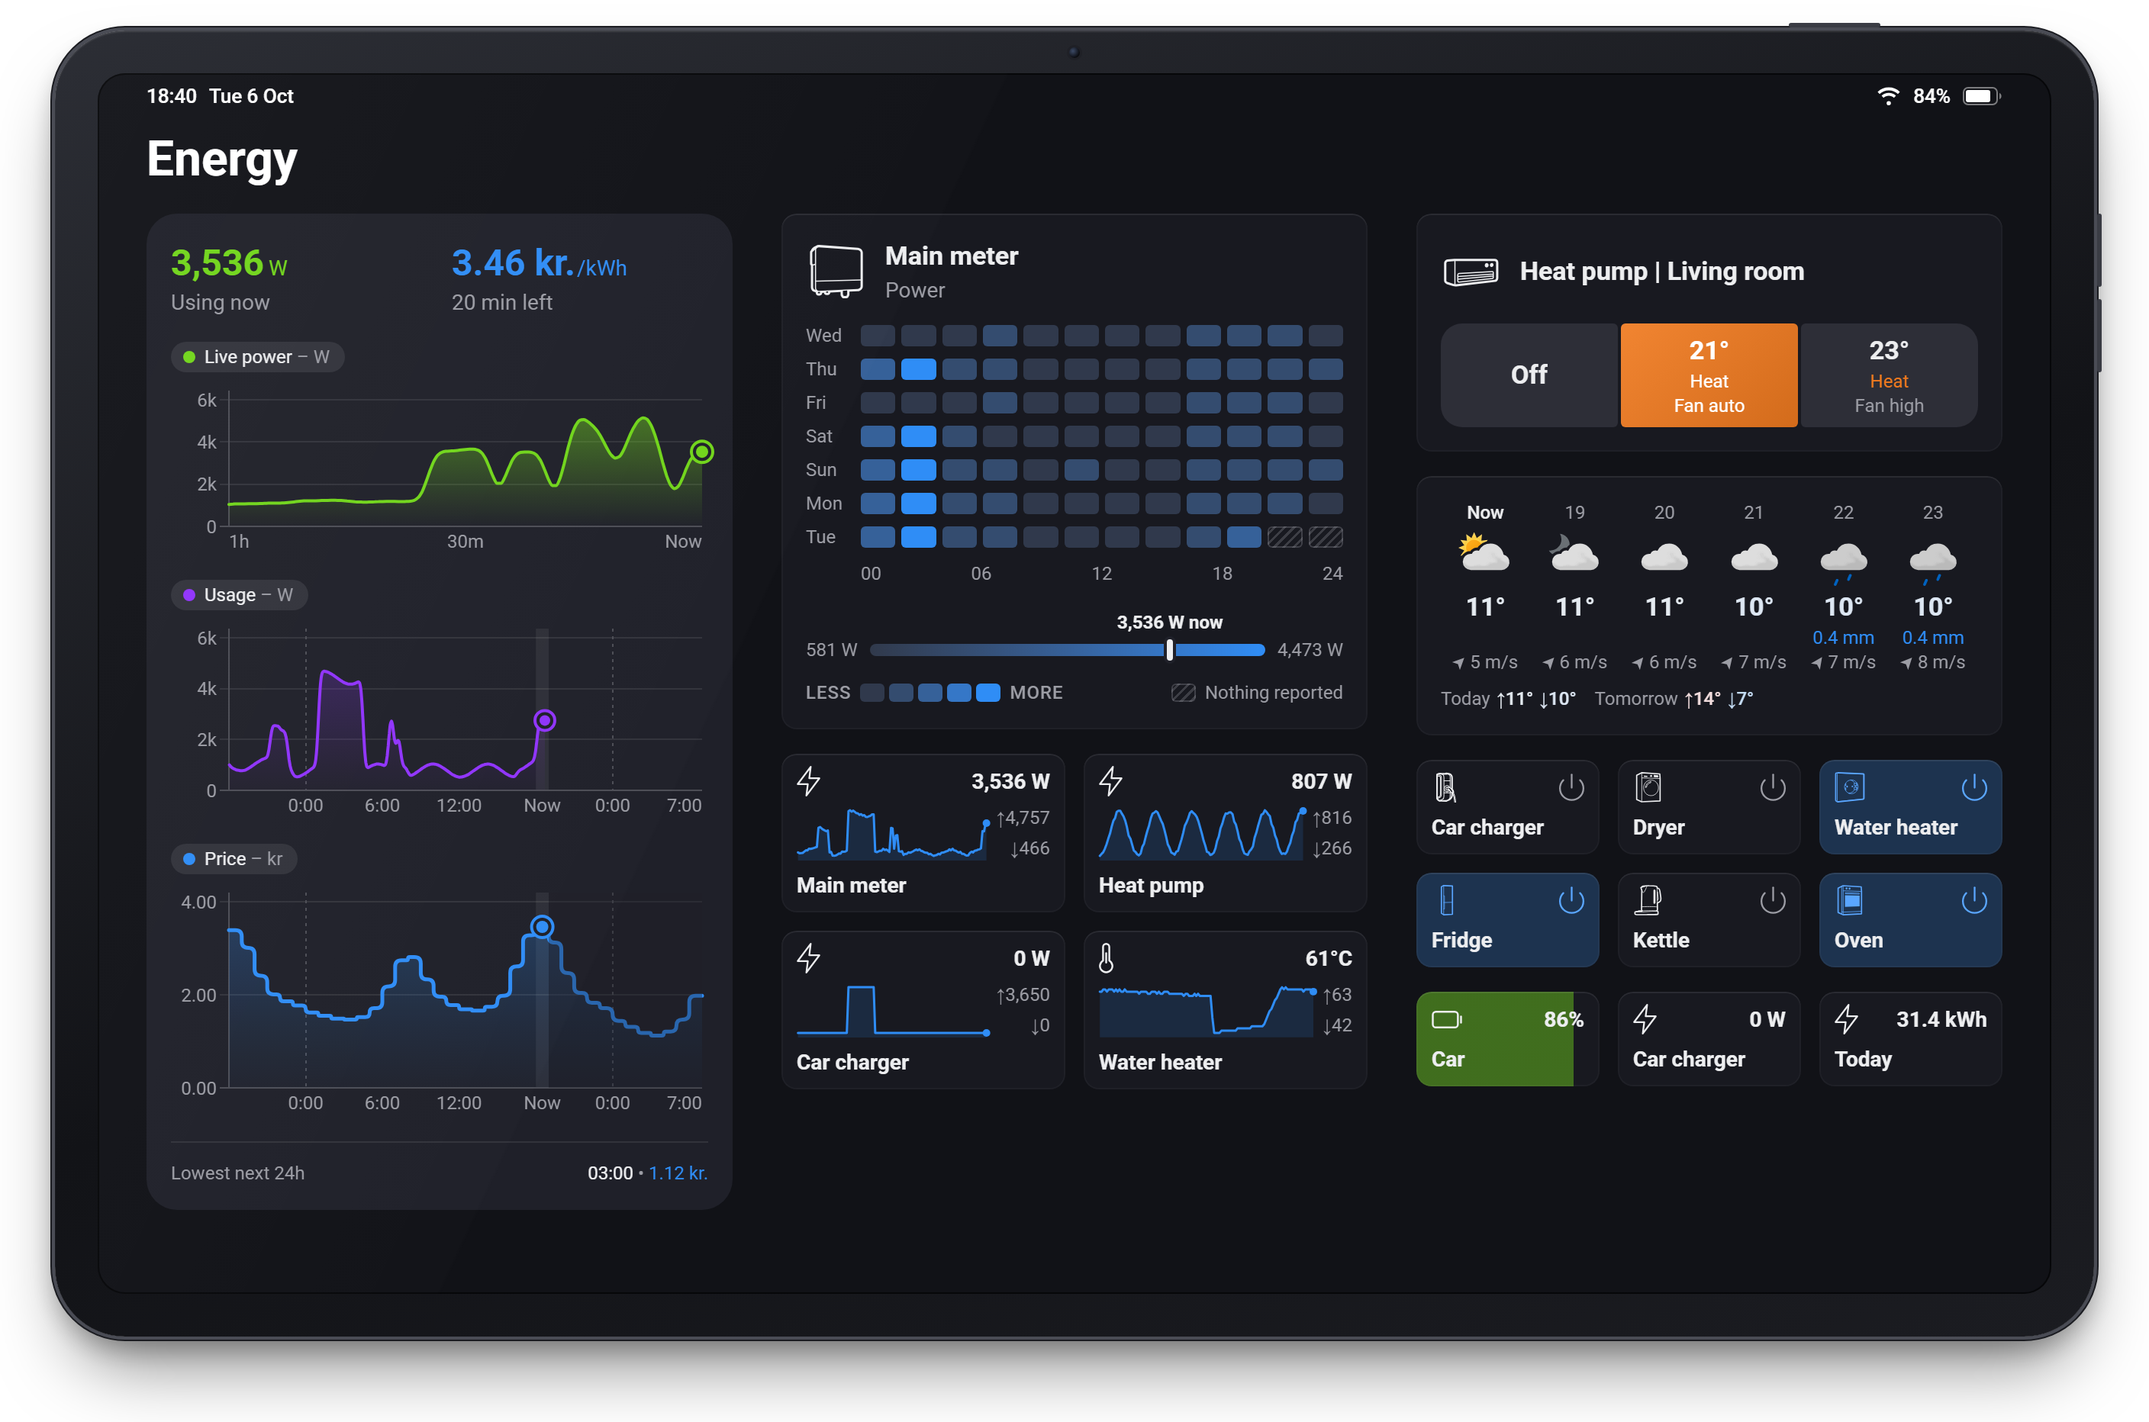
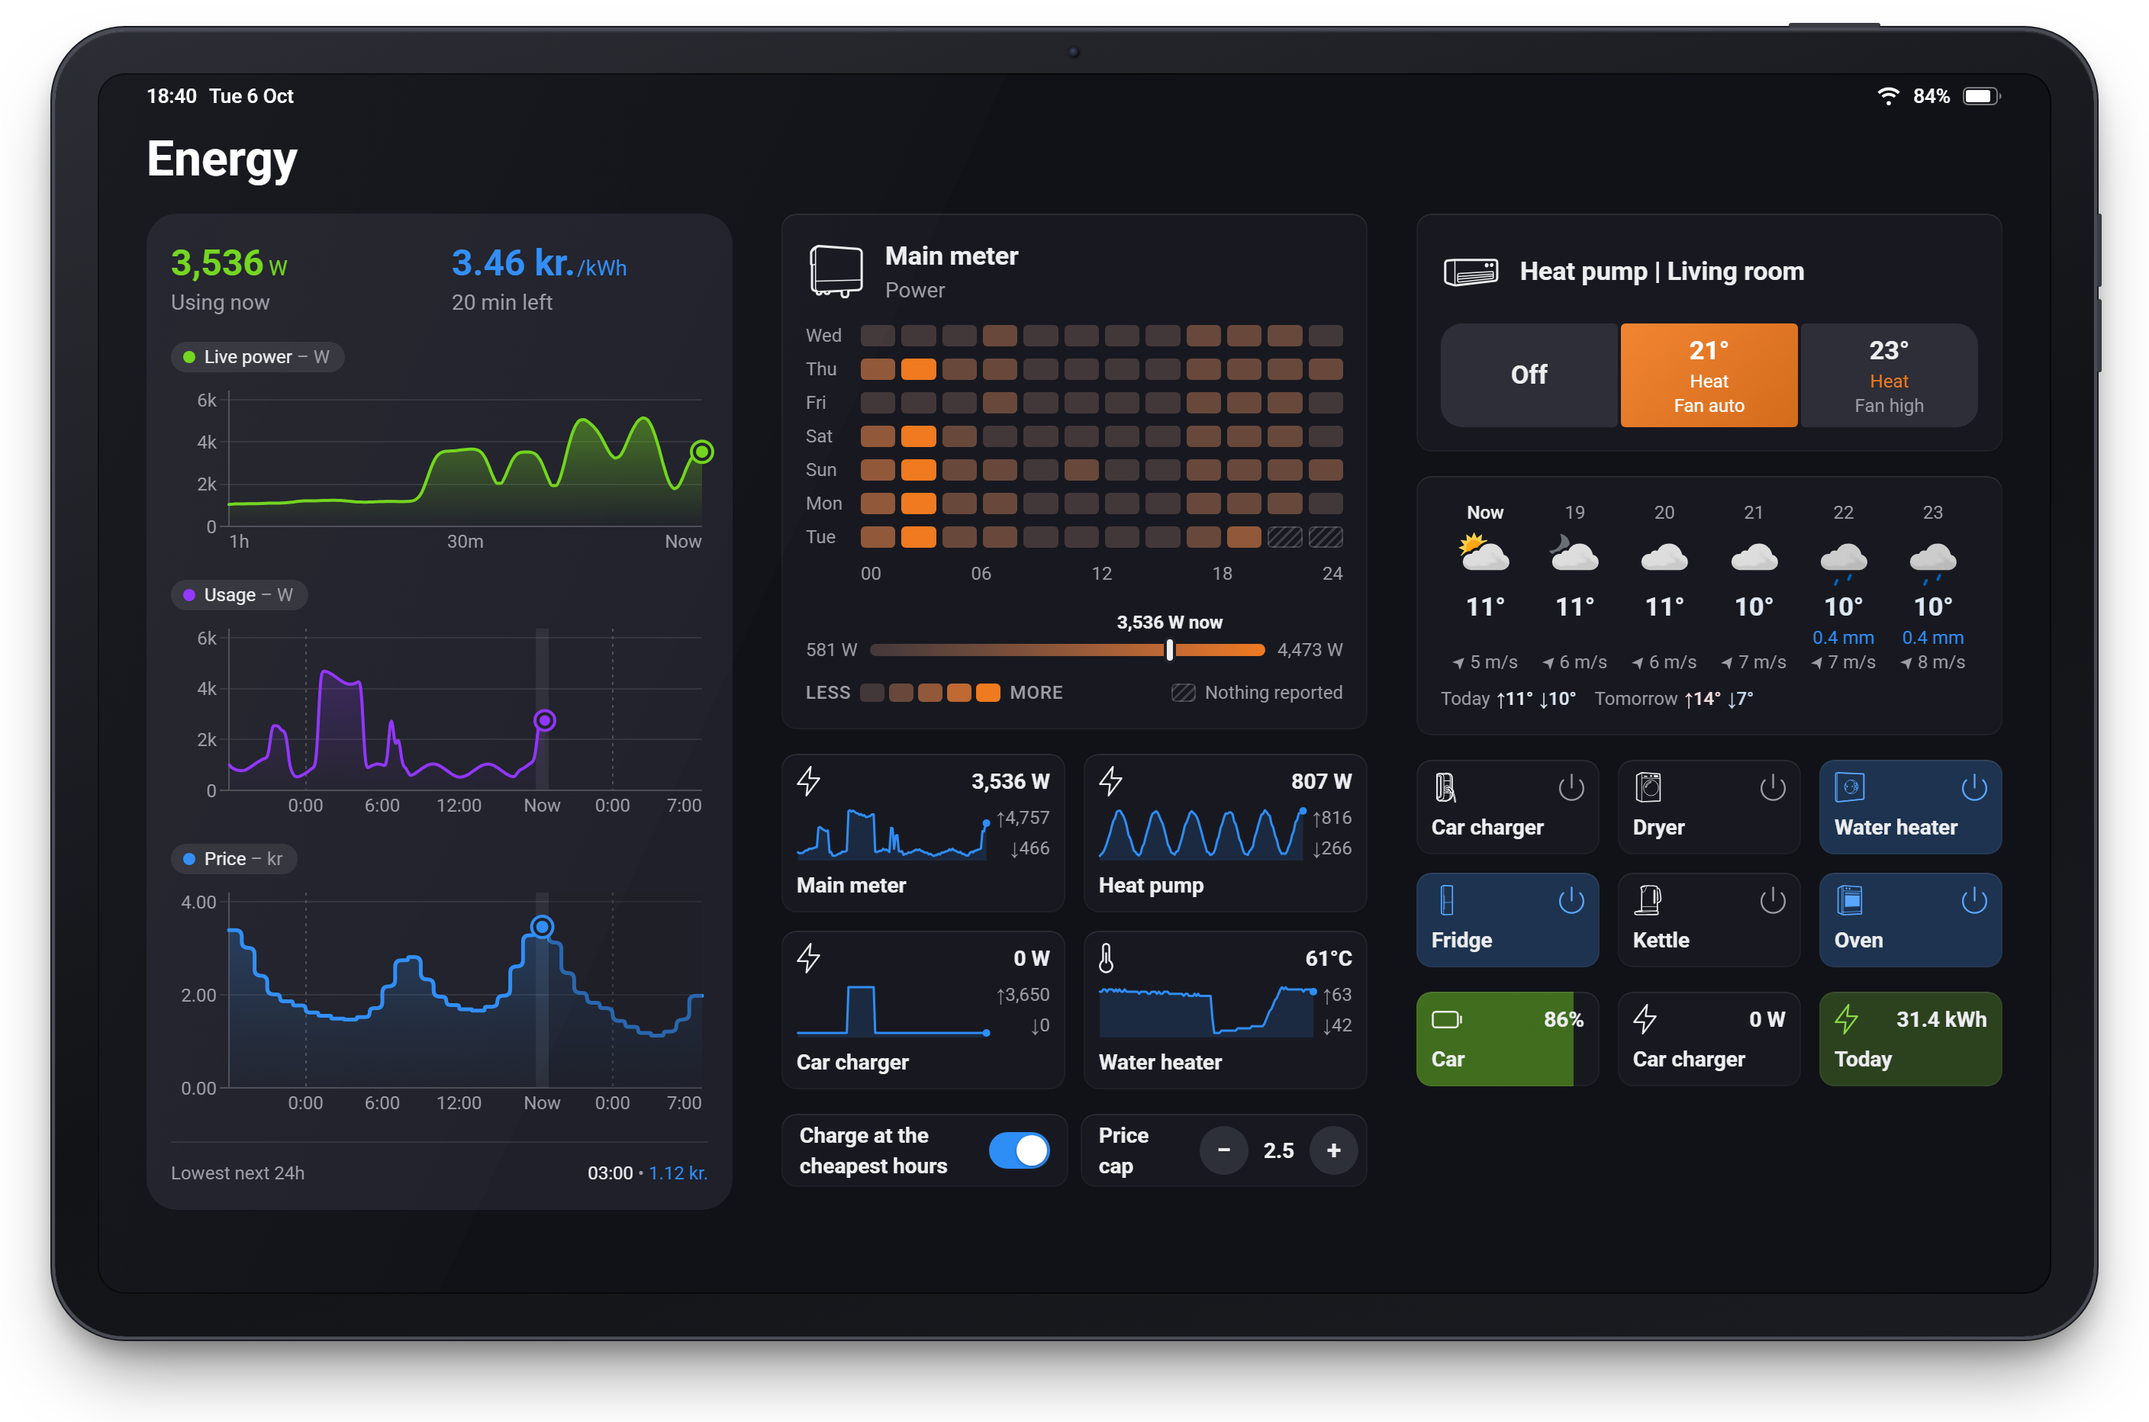
Docs for 0.8.0: fold 0.7.1 in, missing settings, dashboard examples
- CHANGELOG and .homeychangelog: 0.7.1 was never released on its own, so its
  changes are part of 0.8.0, with the hidden prices, the Flow tile colour, the
  heatmap colour and the clearer settings added (and a misplaced word in the
  Danish text fixed).
- README: the settings that were missing (show prices, heatmap colour, the
  brightness bar's far left, the thermostat's buttons), fixed prices and solar
  export, and a Dashboard examples section with all three showcase dashboards.
- Showcase: Flow Variables on the home and energy dashboards too, an orange
  heatmap and a Flow-coloured tile on the energy one.

Claude-Session: https://claude.ai/code/session_01PZZVc8wyA3FDcu8vWP5U9t

diff --git a/dev/showcase-data.js b/dev/showcase-data.js
@@ -218,8 +218,12 @@
       title: 'Home',
       columns: [
         [
-          { type: 'electricity', settings: { liveWindow: 30, nextLow: 'both', smooth: true }, data: electricity() },
+          { type: 'electricity', settings: { liveWindow: 30, nextLow: 'none', smooth: true }, data: electricity() },
           heatPump,
+          { type: 'variables', opts: { columns: '2' }, vars: [
+            { id: 'f1', name: 'Away mode', type: 'boolean', value: false },
+            { id: 'f2', name: 'Guests staying over', type: 'boolean', value: true },
+          ] },
         ],
         [
           { type: 'weather', hours: weatherHours() },
@@ -246,7 +250,7 @@
           { type: 'electricity', settings: { liveWindow: 60, nextLow: '24', smooth: true, separateUsage: true, usageColor: 'purple' }, data: electricity() },
         ],
         [
-          { type: 'heatmap', opts: { period: 'rolling', step: 2 }, data: heatPower() },
+          { type: 'heatmap', opts: { period: 'rolling', step: 2, color: 'orange' }, data: heatPower() },
           { type: 'sparklines', slots: [
             sparkSlot('m1', 'measure_power', 'Main meter', { units: 'W', decimals: 0 }, spark((t, r) => (t > NOW - DAY / 120 ? powerNow() : Math.round(houseLoad(t, r) + (t > NOW - 40 * MIN ? 1500 : 0))), 11)),
             sparkSlot('w1', 'measure_power', 'Heat pump', { units: 'W', decimals: 0 }, spark((t, r) => Math.round(520 + 260 * Math.sin(t / (41 * MIN)) + 40 * r()), 13)),
@@ -255,6 +259,10 @@
               const h = hourOf(t) + new Date(t).getMinutes() / 60;
               return Math.round(h >= 7.1 && h < 7.5 ? 62 - 50 * (h - 7.1) : h >= 7.5 && h < 13 ? 42 + 0.6 * (h - 7.5) : h >= 13 && h < 15 ? 45 + 8.5 * (h - 13) : 62 - 0.2 * ((h + 9) % 24) + r());
             }, 17)),
+          ] },
+          { type: 'variables', opts: { columns: '2' }, vars: [
+            { id: 'e1', name: 'Charge at the cheapest hours', type: 'boolean', value: true },
+            { id: 'e2', name: 'Price cap', type: 'number', value: 2.5 },
           ] },
         ],
         [
@@ -271,7 +279,8 @@
           { type: 'values', opts: { percentFill: true }, slots: [
             value('c1', 'measure_battery', 'Car', { units: '%', decimals: 0 }, 86),
             value('c2', 'measure_power', 'Car charger', { units: 'W', decimals: 0 }, 0),
-            value('m1', 'meter_power', 'Today', { units: 'kWh', decimals: 1 }, 31.4),
+            // Green from a Flow while today's use stays under budget.
+            { ...value('m1', 'meter_power', 'Today', { units: 'kWh', decimals: 1 }, 31.4), color: 'green' },
           ] },
         ],
       ],

diff --git a/README.md b/README.md
@@ -53,14 +53,16 @@ Compact rows to switch flow variables on and off or change a number or text, wit
 
 Live power use (30 seconds to 1 hour), the hourly price from yesterday to 12 hours ahead, the last 24 hours of usage and the cheapest upcoming hour. Tap a chart, or hover with a mouse, to see the value at that moment.
 
-Needs a device that reports power and dynamic prices switched on in Homey Energy (Homey Pro 12.6 or later).
+Works with dynamic prices or a fixed price set in Homey Energy (Homey Pro 12.6 or later); with a fixed price the header shows it and usage gets its own chart. Solar export shows below zero in yellow. Needs a device that reports power.
 
-**Settings:** power meter, live power window, usage history (on the price chart or separate, neutral or purple), smooth lines, lowest price in the next 12 h, 24 h or both.
+**Settings:** power meter, live chart time span, show electricity prices, usage history (on the price chart or separate, neutral or purple), smooth lines, lowest price in the next 12 h, 24 h or both.
 
 ## Thermostat Shortcuts
 <img src="docs/screenshots/thermostat.png" alt="Thermostat Shortcuts on a Homey dashboard" width="358">
 
 Three one-tap presets for a thermostat, heat pump or air conditioner, such as *Off*, *Heat 21°* and *Heat 24° · Fan level 5*. Each sets on/off, the target temperature, the mode and one extra option such as the fan speed. The matching preset lights up; otherwise the widget shows the device's current state.
+
+**Settings:** thermostat or aircon, and per button: power (on, off or unchanged), mode, temperature, and a fan or other setting.
 
 ## Device Quick Actions
 <img src="docs/screenshots/quickactions.png" alt="Device Quick Actions on a Homey dashboard" width="358">
@@ -90,7 +92,7 @@ Weather data from MET Norway, licensed under [CC BY 4.0](https://creativecommons
 
 A week of one Insights value as a grid of weekdays and hours, with a scale and a marker at the current value. Works with numbers (light, temperature, power …) and on/off values (motion, contact …), shown as the share of each hour they were on. On/off history fills in over the first days, as Insights keeps only their last 50 changes.
 
-**Settings:** device and value, this week or the last 3–14 days, 1–3 hours per column, show scale, show legend.
+**Settings:** device and value, this week or the last 3–14 days, 1–3 hours per column, colour (blue, red, orange, yellow, green or purple), show scale, show legend.
 
 ## Cameras
 <img src="docs/screenshots/cameras.png" alt="Cameras on a Homey dashboard" width="358">
@@ -106,21 +108,21 @@ Half-height tiles that each show one device value, such as a temperature, a batt
 
 A Flow can colour the tiles: the action card **Set the tile colour of … to …** gives every tile showing that value red, orange, yellow, green, blue or purple, and Default resets it. For example, a fridge thermometer blue below 5 °C and red above, or an internet check green while it passes and red when its alarm goes off.
 
-**Settings:** up to six values, 3 or 2 columns, fill percentages by level with adjustable limits.
+**Settings:** up to six values, 3 or 2 tiles per row, fill percentages by level with adjustable limits.
 
 ## Light Controls
 <img src="docs/screenshots/lights.png" alt="Light Controls on a Homey dashboard" width="358">
 
 Compact light tiles, six in the space of three of Homey's light cards. Tap a tile to turn the light on or off, drag or tap the bar to set the brightness, and tap the colour button (a half-filled circle, or a thermometer on white-only lights, in the light's colour) to pick a colour or a white from a row of swatches. On Android, tap the bar instead of dragging. Lights in the same room can share one tile that controls them all. Plugs and switches that only turn on and off get a tile without the bar.
 
-**Settings:** lights, colour palette (bright colours, warm from red to cool white, or dusk), group by room.
+**Settings:** lights, group by room, the brightness bar's far left (turns the light off, or dims to 1 % and stays on), colour palette (bright colours, warm from red to cool white, or dusk).
 
 ## Sparklines
 <img src="docs/screenshots/sparklines.png" alt="Sparklines on a Homey dashboard" width="358">
 
 Device Values' tiles with a small chart of each value from Insights, with its highest and lowest, following the live value.
 
-**Settings:** up to six values, time span (1 h, 6 h, 24 h or 7 days), 2 or 1 columns.
+**Settings:** up to six values, time span (1 h, 6 h, 24 h or 7 days), 2 or 1 tiles per row.
 
 ## Flow Variables
 <img src="docs/screenshots/variables.png" alt="Flow Variables on a Homey dashboard" width="358">
@@ -130,6 +132,21 @@ Homey's Logic variables as compact rows that show the full name: a switch for a 
 **Settings:** up to ten variables, 1 or 2 columns, and the step for − and +.
 
 Homey doesn't let apps change variables on their own, so changing them needs a Homey API key. In the Homey web app, create one under **Settings → API Keys** with permission to change variables. Then paste it under **Apps → Widgetkeeper → Configure**. The key stays on your Homey. Without a key the widget shows the variables but can't change them.
+
+## Dashboard examples
+Three dashboards from a made-up house, on a tablet in Homey's dark mode.
+
+**Home:** electricity, the heat pump, flow variables, the weather, lights, quick actions, sensor alarms, cameras, sparklines and a motion heatmap.
+
+<img src="docs/showcase/home.png" alt="A home dashboard with Widgetkeeper widgets on a tablet" width="100%">
+
+**Energy:** electricity with a separate purple usage chart, a power heatmap in orange, sparklines of the big consumers, the heat pump, the weather in detail, appliance quick actions, device values (*Today* coloured green by a Flow) and the car charging flags.
+
+<img src="docs/showcase/energy.png" alt="An energy dashboard with Widgetkeeper widgets on a tablet" width="100%">
+
+**Security:** six cameras, sensor alarms with motion and contact counted, door locks, a motion heatmap, battery levels filled by level, flow variables, outdoor lights and the weather.
+
+<img src="docs/showcase/security.png" alt="A security dashboard with Widgetkeeper widgets on a tablet" width="100%">
 
 ## Languages
 English, Dutch, German, French, Italian, Swedish, Norwegian, Spanish, Danish, Russian, Polish, Korean and Arabic, following Homey's language.

diff --git a/CLAUDE.md b/CLAUDE.md
@@ -16,7 +16,7 @@ Homey Pro app (`com.thomassidor.widgetkeeper`) that hosts custom dashboard widge
   - The README overview is no table: in a table GitHub's `max-width: 100%` lets the image column collapse on a phone, so the previews were nearly invisible. Each widget is one HTML `<p>`: a 120 px preview floated left (`align="left"`, a `<picture>` that follows the GitHub theme), the bold linked name, the description and `<br clear="left">`. The equal heights keep the text beside the image at phone width (358 px of content).
 - `npm run screenshots [-- thermostat …]`: renders the README screenshots (`docs/screenshots/*.png`) from `dev/screenshots.html`: the real widgets with mock data in Homey's dark mode, 358 px (a phone's widget width) at 3x, with no widget title and a transparent background so they sit flush with the README text. It downloads the Homey library icons the mock devices use into `temp/screenshot-icons.js` (not committed).
   - The data is the showcase's made-up house (`dev/showcase-data.js`, see below) on its fixed clock; `dev/mock-dashboard.js` picks a widget of each type from it (`find(type, n)`, in dashboard order) and mounts it. Never put real device names or readings in the renders.
-- `npm run showcase [-- home energy security]`: renders the showcase dashboards (`docs/showcase/<id>.png`; the README's top image is `home.png`) from `dev/showcase.html?d=<id>`: three columns of the real widgets on Homey's dark dashboard, on a drawn 16:10 tablet (a 1280 × 800 screen), at 2x on a transparent background.
+- `npm run showcase [-- home energy security]`: renders the showcase dashboards (`docs/showcase/<id>.png`; the README's top image is `home.png`, and its Dashboard examples section shows all three) from `dev/showcase.html?d=<id>`: three columns of the real widgets on Homey's dark dashboard, on a drawn 16:10 tablet (a 1280 × 800 screen), at 2x on a transparent background.
   - The data is a made-up house, "Solbakken", on Tuesday 6 October 2026 at 18:40 (`dev/showcase-data.js`); the page replaces `Date` to fix the clock, so every render is the same. The electricity widget uses `smooth`.
   - A dashboard is `SHOWCASE[id] = { title, columns: [[{ type, … }]] }`; `MOUNT` in `showcase.html` creates each widget type. A new dashboard is a new entry.
   - The script warns when a column runs off the screen (it's cut off, like a dashboard you'd scroll).
@@ -239,7 +239,7 @@ How this project uses it:
   - Reading, the events and the autocompletes still use the app's token. Without a usable key `/set` answers `{ok: false, reason: 'noKey' | 'keyScope' | 'keyInvalid'}` and the widget shows that message (`KEY_PROBLEMS`).
 - The service connects on the first `/state` and disconnects after 10 min without one. It re-reads every variable at most every 4 min (`$cache: false`) in case an event was missed. `set` checks the value against the type (finite numbers, strings up to 1000 characters).
 - Endpoints: `GET /state?ids=a,b` (`{id, name, type, value}` or `{id, missing: true}`, in order) and `POST /set {id, value}`. Realtime: `variables:state` with the same entry, only for ids asked for in the last 10 min. Widgets re-fetch every 5 min. The diagnostics report has a `variables` section (connection and counts, never values).
-- `dev/variables-preview.html`: 1 and 2 columns, dark, light, 300 px, with a simulated Homey (`Broken flag` fails). The showcase has one on the security dashboard (2 columns, made-up flags).
+- `dev/variables-preview.html`: 1 and 2 columns, dark, light, 300 px, with a simulated Homey (`Broken flag` fails). The showcase has one on each dashboard (2 columns, made-up flags).
 
 ## Diagnostics (no Docker needed)
 - **Read it yourself with `npm run diagnostics`** (`scripts/diagnostics.mjs`); don't ask the user to paste it. It calls the app's `GET /diagnostics` on the active Homey through `homey api raw`, which uses the CLI's login. Options: `-- --device <id|name>`, `--devices`, `--json`, `--debug on|off`, `--heatmap <deviceId>:<capabilityId>[:<days>]` (adds the heatmap's `/history` for it; note this starts recording a boolean, as a widget would). Right after an install the app may still be starting, so retry.

diff --git a/CHANGELOG.md b/CHANGELOG.md
@@ -15,23 +15,27 @@ All notable changes to Widgetkeeper. The version numbers match the Homey app ver
 ### Electricity Overview
 - Supports a fixed electricity price set in Homey Energy: the price shows in the header, and usage gets its own chart instead of the price chart.
 - Solar export: power below zero is drawn below the zero line in yellow, and the header says *Exporting now*.
+- New setting, *Show electricity prices*: turn it off to leave out the price, the price chart and the lowest price, for a card with only power and usage.
+- A brief connection problem no longer hides the charts.
+- The usage history comes back by itself when Homey's Insights were briefly unavailable as the widget opened.
+
+### Device Values
+- A Flow can colour the tiles: the new action card *Set the tile colour of … to …* makes every tile showing that value red, orange, yellow, green, blue or purple, and *Default* resets it. For example, a fridge thermometer blue while it's cold and red when it's too warm.
+
+### Insights Heatmap
+- New setting, *Colour*: blue (the default), red, orange, yellow, green or purple.
 
 ### Light Controls
 - New setting, *Brightness bar at the far left*: stop the bar at 1 % so the light stays on, instead of turning it off.
-
-## 0.7.1
+- Plugs and wall switches set up as lights can now be picked too. They only turn on and off, so their tiles have no brightness bar.
 
 ### Thermostat Shortcuts
 - A preset now always sets its temperature, also on aircons that keep a temperature per mode (switching mode used to bring back the mode's own temperature).
 - A renamed or deleted thermostat now shows without reopening the dashboard.
 - A brief connection problem no longer hides the buttons; the error shows for a moment instead.
 
-### Electricity Overview
-- A brief connection problem no longer hides the charts.
-- The usage history comes back by itself when Homey's Insights were briefly unavailable as the widget opened.
-
-### Light Controls
-- Plugs and wall switches set up as lights can now be picked too. They only turn on and off, so their tiles have no brightness bar.
+### All widgets
+- Clearer setting names, in a more logical order, with help texts.
 
 ## 0.7.0
 
